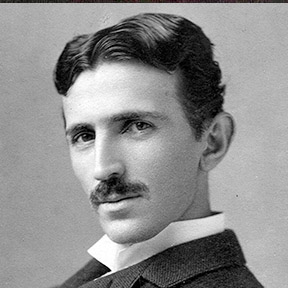
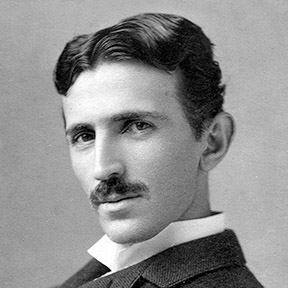
profile pics are now in redux and being rendered on client,. they are generated randomly in seed and on profile creation

Changed region(s): [[0.0, 0.0, 1.0, 0.0312]]

diff --git a/client/src/components/Dashboard.js b/client/src/components/Dashboard.js
@@ -13,9 +13,9 @@ const Dashboard = () => {
     const [isAdmin, setIsAdmin] = useState(false);
     const [isMod, setIsMod] = useState(false);
     const [isUser, setIsUser] = useState(false);
-    const [profilePicUrl, setProfilePicUrl] = useState(
-        "../../assets/images/default-profile-pics/default-profile-pic-3.jpg"
-    );
+    // const [profilePicUrl, setProfilePicUrl] = useState(
+    //     "../../assets/images/default-profile-pics/default-profile-pic-3.jpg"
+    // );
 
     const bgColor = "#3c66ff";
     //use react router history
@@ -61,7 +61,9 @@ const Dashboard = () => {
                                                     <div class="col-4 col-lg-3">
                                                         <img
                                                             class="mr-3 avatar avatar-xl rounded profile-pic"
-                                                            src={profilePicUrl}
+                                                            src={
+                                                                user.profilePic
+                                                            }
                                                             alt="Generic placeholder"
                                                             data-toggle="modal"
                                                             data-target="#update-profile-pic-modal"
@@ -253,7 +255,7 @@ const Dashboard = () => {
                                 <div>
                                     <img
                                         class="img-fluid mx-auto d-block large-profile-pic"
-                                        src={profilePicUrl}
+                                        src={user.profilePic}
                                         alt="profile pic"
                                     />
                                 </div>

diff --git a/client/src/components/Login.js b/client/src/components/Login.js
@@ -72,6 +72,7 @@ const Login = ({
                 const { data } = await login({
                     variables: { ...userLoginData },
                 });
+                console.log(data);
                 //also login via Auth utility to generate a token for extra security, this also adds logged in user data to redux store
                 Auth.login(
                     data.login.token,
@@ -79,7 +80,8 @@ const Login = ({
                     data.login.user.username,
                     data.login.user.email,
                     data.login.user.isVerified,
-                    data.login.user.roles
+                    data.login.user.roles,
+                    data.login.user.profilePic
                 );
                 //send user to homepage after login
                 history.push("/");
@@ -114,7 +116,8 @@ const Login = ({
                     data.addUser.user.username,
                     data.addUser.user.email,
                     data.addUser.user.isVerified,
-                    data.addUser.user.roles
+                    data.addUser.user.roles,
+                    data.addUser.user.profilePic
                 );
                 //after user is created, forward them to a page to verify their email address
                 if (!data.addUser.user.isVerified) {

diff --git a/client/src/utils/auth.js b/client/src/utils/auth.js
@@ -33,12 +33,19 @@ class AuthService {
         return localStorage.getItem("id_token");
     }
 
-    login(idToken, id, username, email, isVerified, roles) {
+    login(idToken, id, username, email, isVerified, roles, profilePic) {
         // Saves user token to localStorage
         localStorage.setItem("id_token", idToken);
         //add user data to redux state on login
         store.dispatch(
-            userActions.loginRedux(id, username, email, isVerified, roles)
+            userActions.loginRedux(
+                id,
+                username,
+                email,
+                isVerified,
+                roles,
+                profilePic
+            )
         );
     }
 

diff --git a/client/src/redux/actions/user.js b/client/src/redux/actions/user.js
@@ -1,9 +1,16 @@
 import * as actions from "../actionTypes";
 
-export const loginRedux = (id, username, email, isVerified, roles) => {
+export const loginRedux = (
+    id,
+    username,
+    email,
+    isVerified,
+    roles,
+    profilePic
+) => {
     return {
         type: actions.LOGIN_REDUX,
-        payload: { id, username, email, isVerified, roles },
+        payload: { id, username, email, isVerified, roles, profilePic },
     };
 };
 export const logoutRedux = () => {

diff --git a/client/src/utils/mutations.js b/client/src/utils/mutations.js
@@ -13,6 +13,7 @@ export const ADD_USER = gql`
                     role
                     associatedIds
                 }
+                profilePic
             }
         }
     }
@@ -130,6 +131,7 @@ export const USER_LOGIN = gql`
                 username
                 email
                 isVerified
+                profilePic
                 roles {
                     role
                     associatedIds

diff --git a/client/src/components/VerifyEmail.js b/client/src/components/VerifyEmail.js
@@ -95,7 +95,8 @@ const VerifyEmail = () => {
                             user._id,
                             user.username,
                             user.email,
-                            user.isVerified
+                            user.isVerified,
+                            user.profilePic
                         )
                     );
                 } catch (error) {

diff --git a/client/src/redux/reducers/user.js b/client/src/redux/reducers/user.js
@@ -11,6 +11,7 @@ function userReducer(state = { loggedIn: false }, action) {
                 isVerified: action.payload.isVerified,
                 loggedIn: true,
                 roles: action.payload.roles,
+                profilePic: action.payload.profilePic,
             };
         case actions.LOGOUT_REDUX:
             console.log(action);

diff --git a/server/schema/typeDefs.js b/server/schema/typeDefs.js
@@ -34,6 +34,7 @@ const typeDefs = gql`
         isVerified: Boolean!
         roles: [Role]
         savedBooks: [Book]
+        profilePic: String
     }
 
     type Subject {
